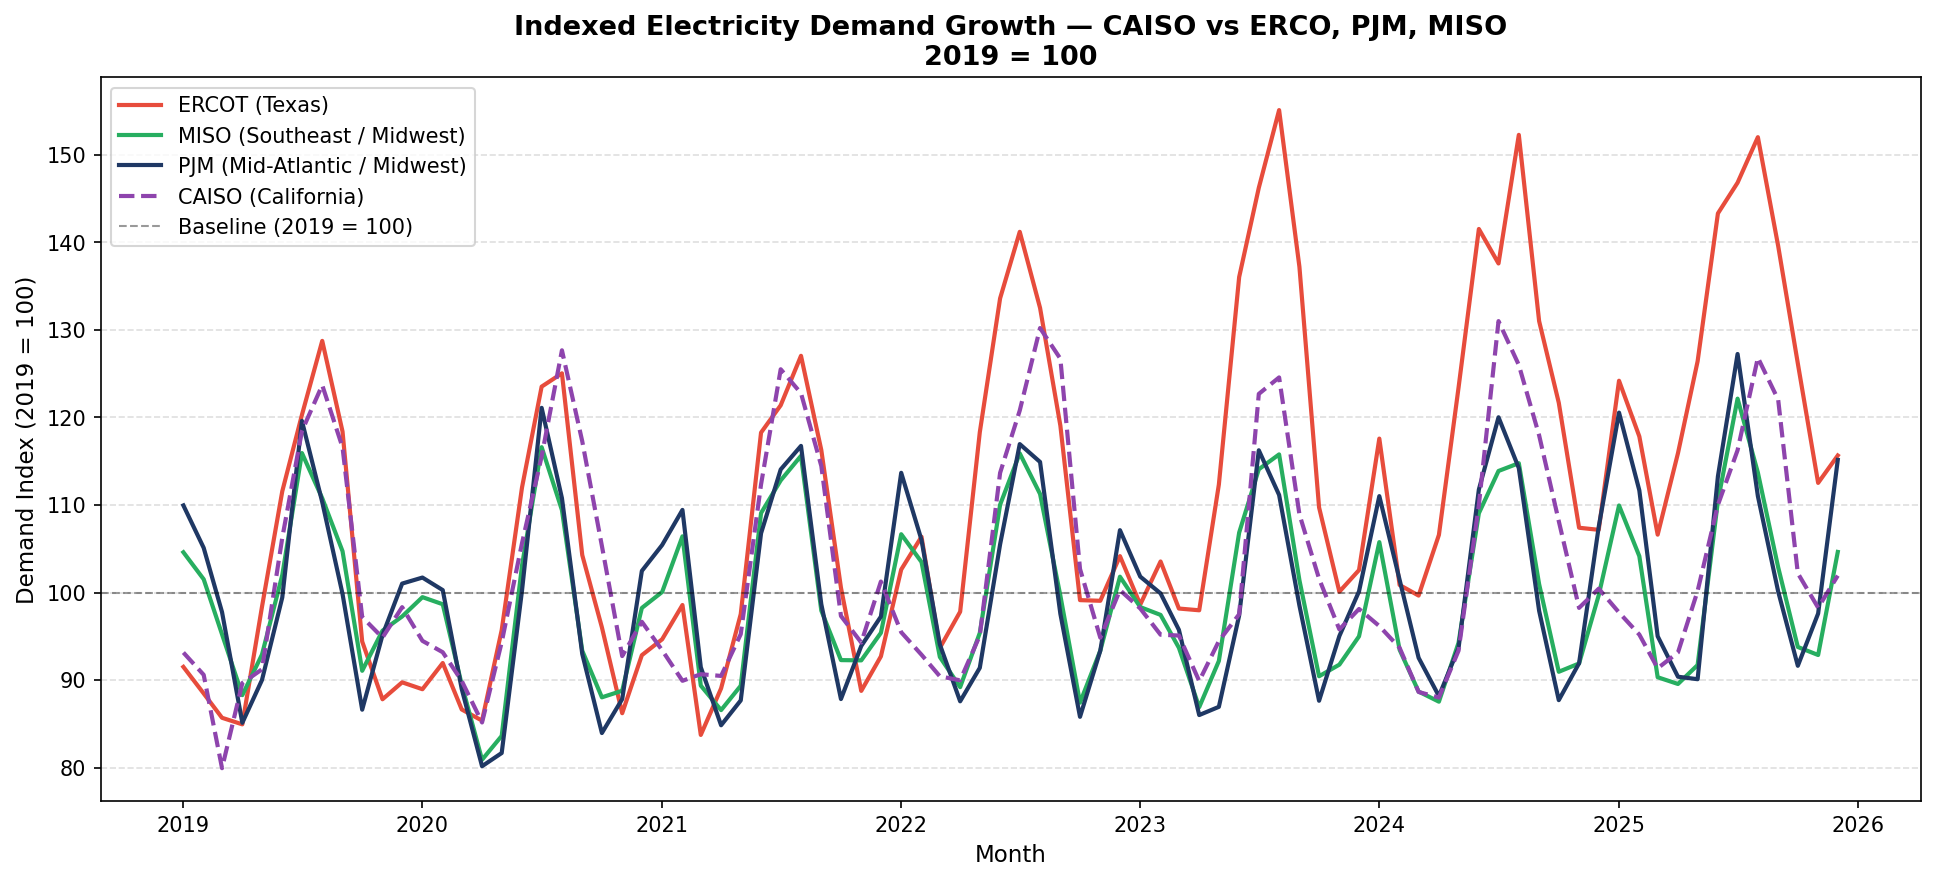
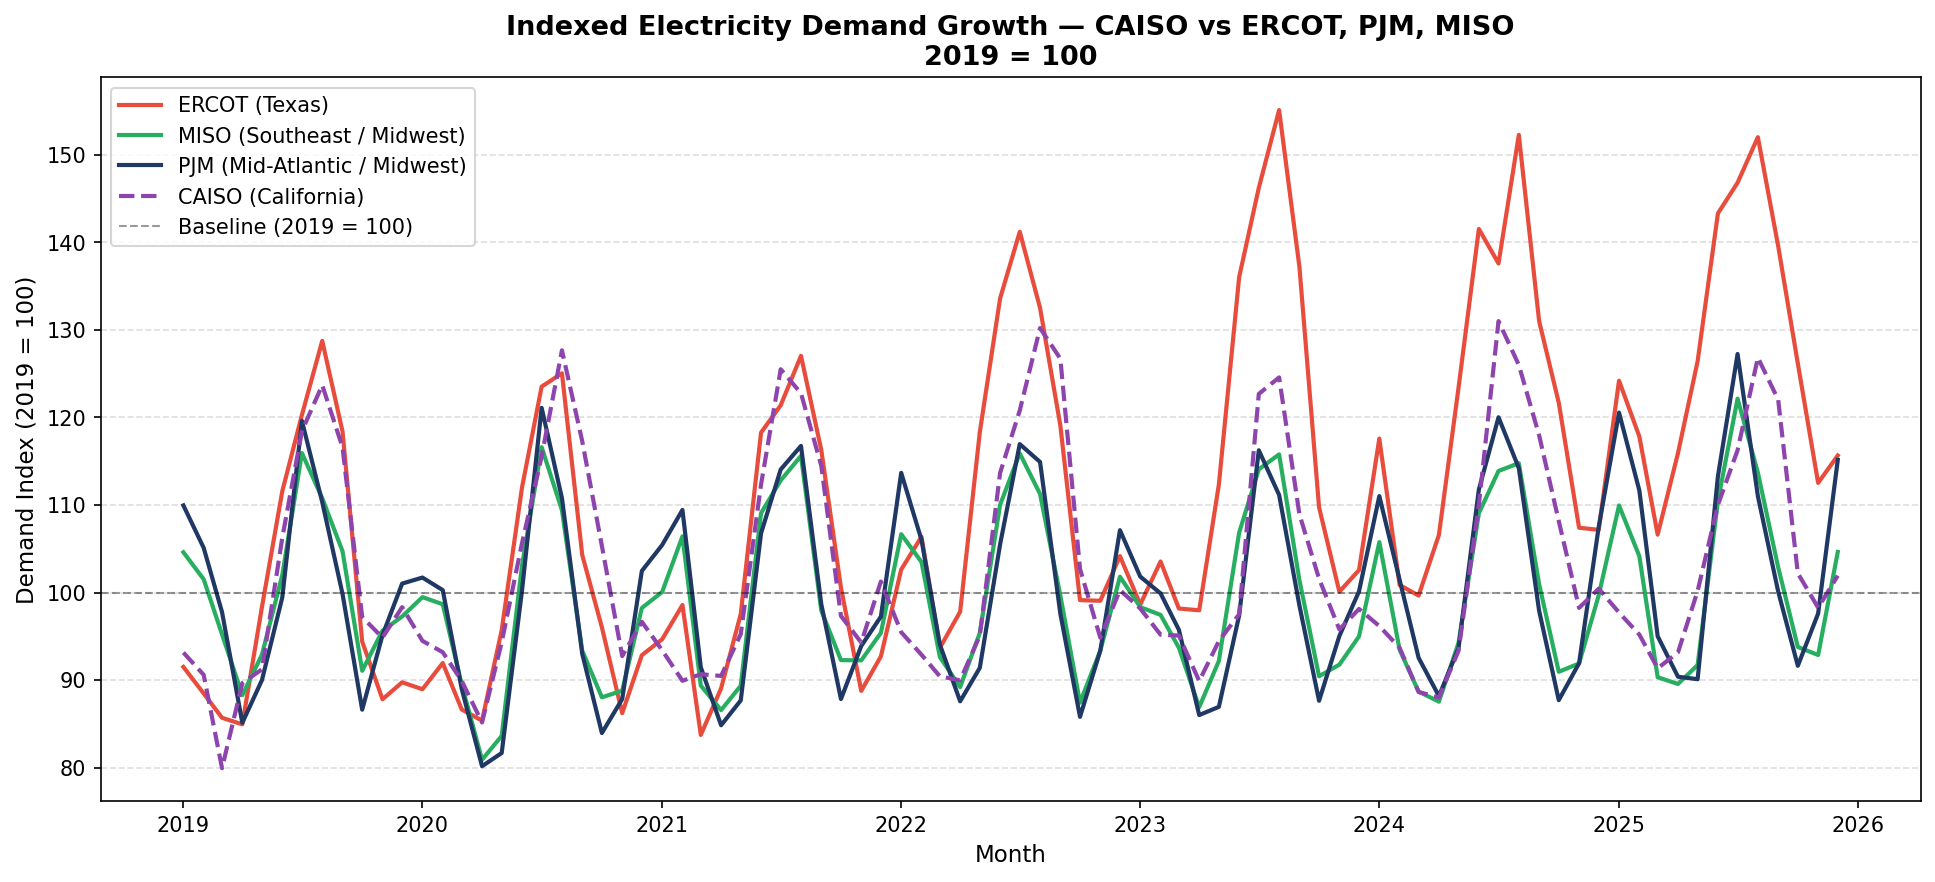
Fix ERCO -> ERCOT in CAISO diagnostic figure title

Changed region(s): [[0.2481, 0.0, 0.7752, 0.0612]]

diff --git a/scripts/caiso_diagnostic.py b/scripts/caiso_diagnostic.py
@@ -123,7 +123,7 @@ ax.plot(ciso_plot["year_month"].dt.to_timestamp(), ciso_plot["idx"],
 
 ax.axhline(100, color="black", linestyle="--", linewidth=1, alpha=0.4,
            label="Baseline (2019 = 100)")
-ax.set_title("Indexed Electricity Demand Growth — CAISO vs ERCO, PJM, MISO\n2019 = 100",
+ax.set_title("Indexed Electricity Demand Growth — CAISO vs ERCOT, PJM, MISO\n2019 = 100",
              fontsize=13, fontweight="bold")
 ax.set_xlabel("Month", fontsize=11)
 ax.set_ylabel("Demand Index (2019 = 100)", fontsize=11)